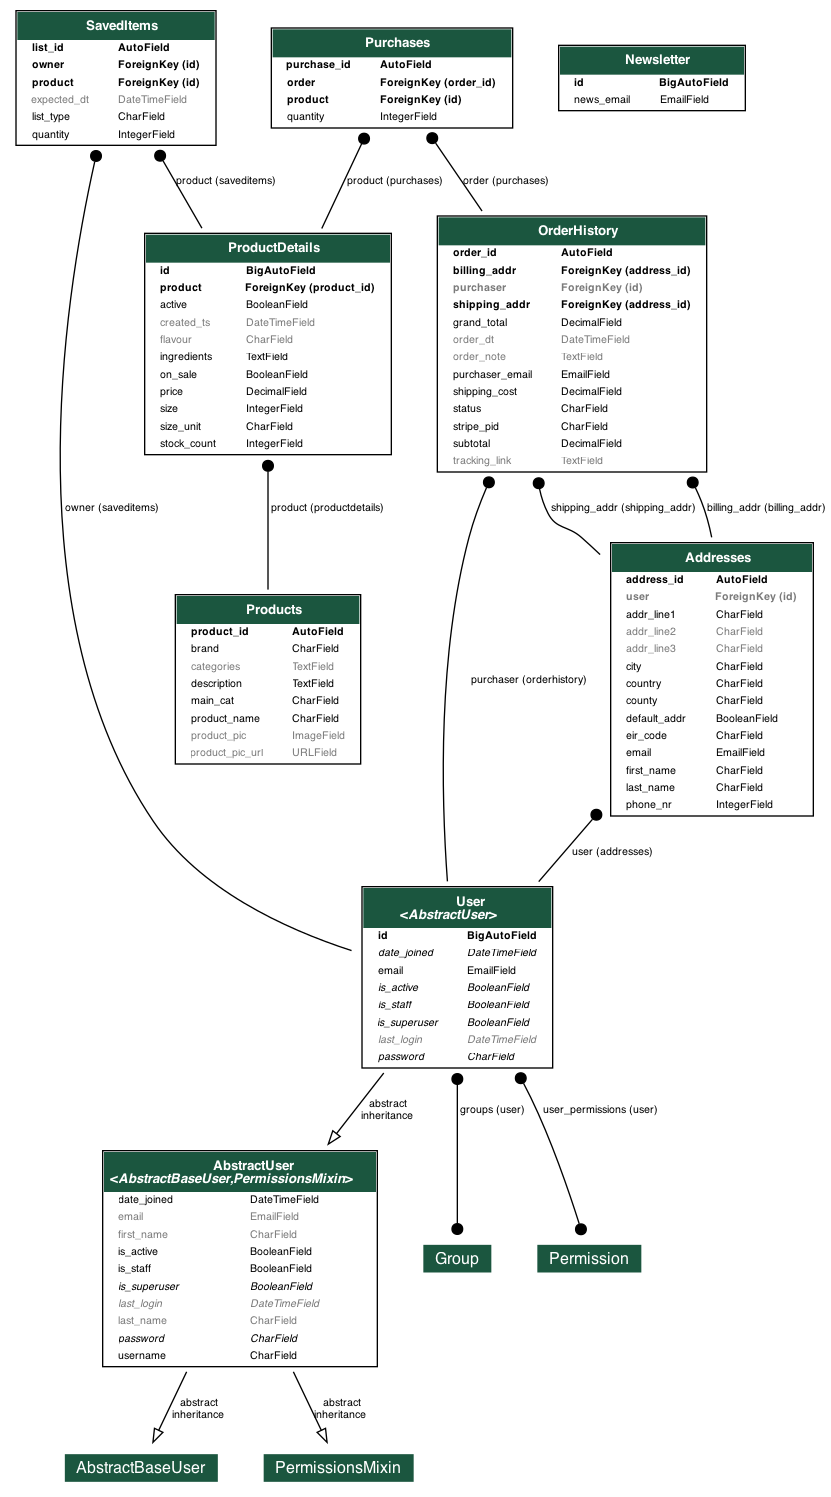
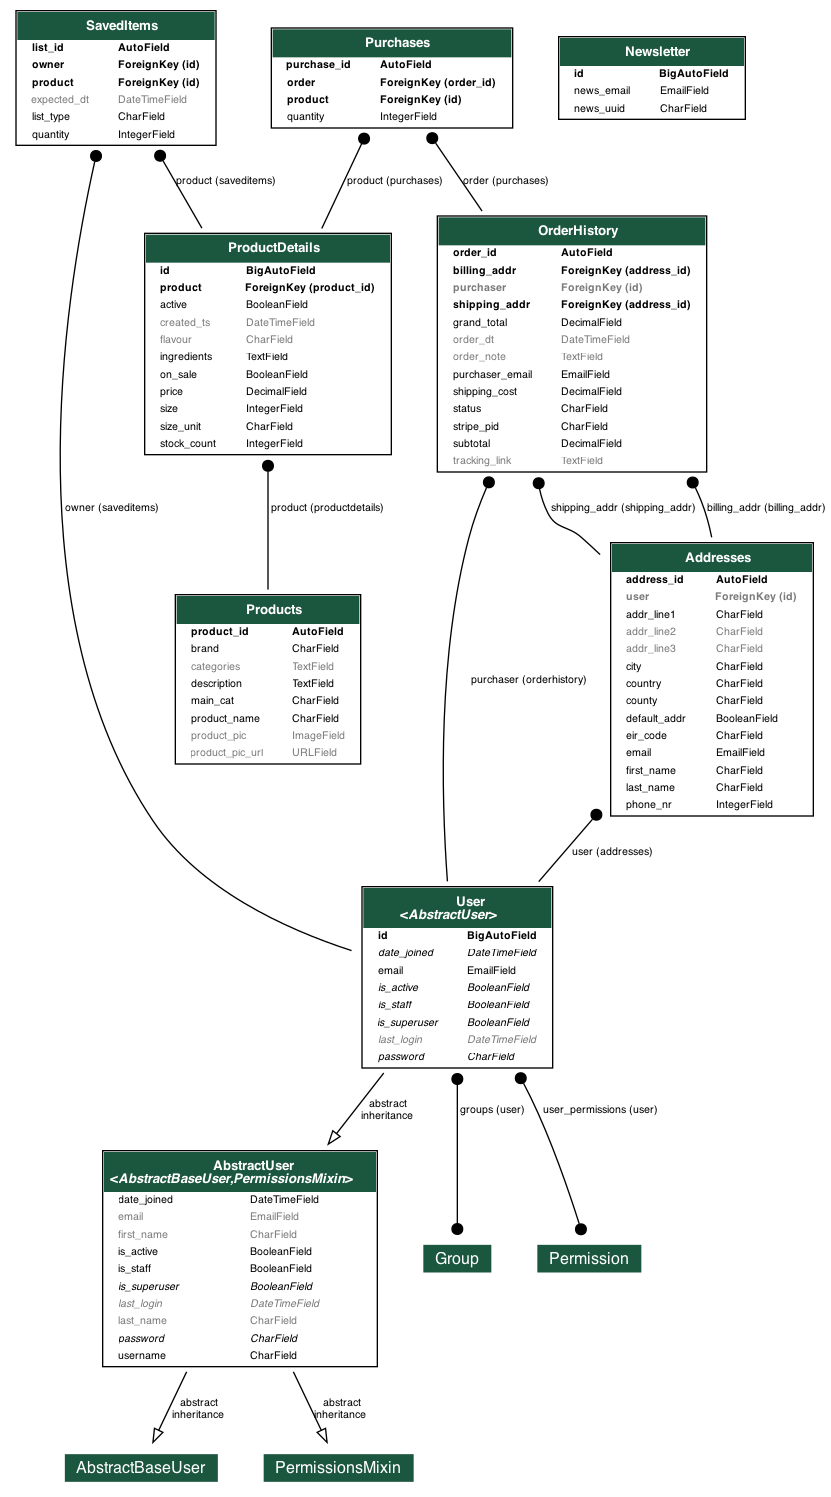
FEAT(readme): minor updates

Changed region(s): [[0.6619, 0.0, 0.9025, 0.0922]]

diff --git a/README.md b/README.md
@@ -249,7 +249,7 @@ The site was deployed on Heroku. ElephantSQL was used for the database, as end o
 10. The final iteration of this app uses Amazon S3 for static and media storage, so the necessary changes needed to be made to [settings.py](https://github.com/crazycooky77/ci_project5/blob/main/nutriforce/settings.py) for this as well
 
 ### Important Extras
-Heroku re-uploads the entirety of the static files to AWS with every commit, which causes the free tier limit to be reached within days. To avoid this, addED DISABLE_COLLECTSTATIC = 1 to Config Vars on Heroku. Then needed to manually python3 manage.py collectstatic locally with USE_AWS set to True in local environment variables (based on [settings.py](https://github.com/crazycooky77/ci_project5/blob/main/nutriforce/settings.py) in this project). Set this variable back to False when developing locally and using python3 manage.py runserver to see local static file changes. Otherwise the files (CSS, images...) already uploaded to Amazon S3 would be used in runserver and no local changes are visible.
+Heroku re-uploads the entirety of the static files to AWS with every commit, which causes the free tier limit to be reached within days. To avoid this, DISABLE_COLLECTSTATIC = 1 was added to Config Vars on Heroku. Then needed to manually python3 manage.py collectstatic locally with USE_AWS set to True in local environment variables (based on [settings.py](https://github.com/crazycooky77/ci_project5/blob/main/nutriforce/settings.py) in this project). Set this variable back to False when developing locally and using python3 manage.py runserver to see local static file changes. Otherwise the files (CSS, images...) already uploaded to Amazon S3 would be used in runserver and no local changes are visible.
 
 ---
 
